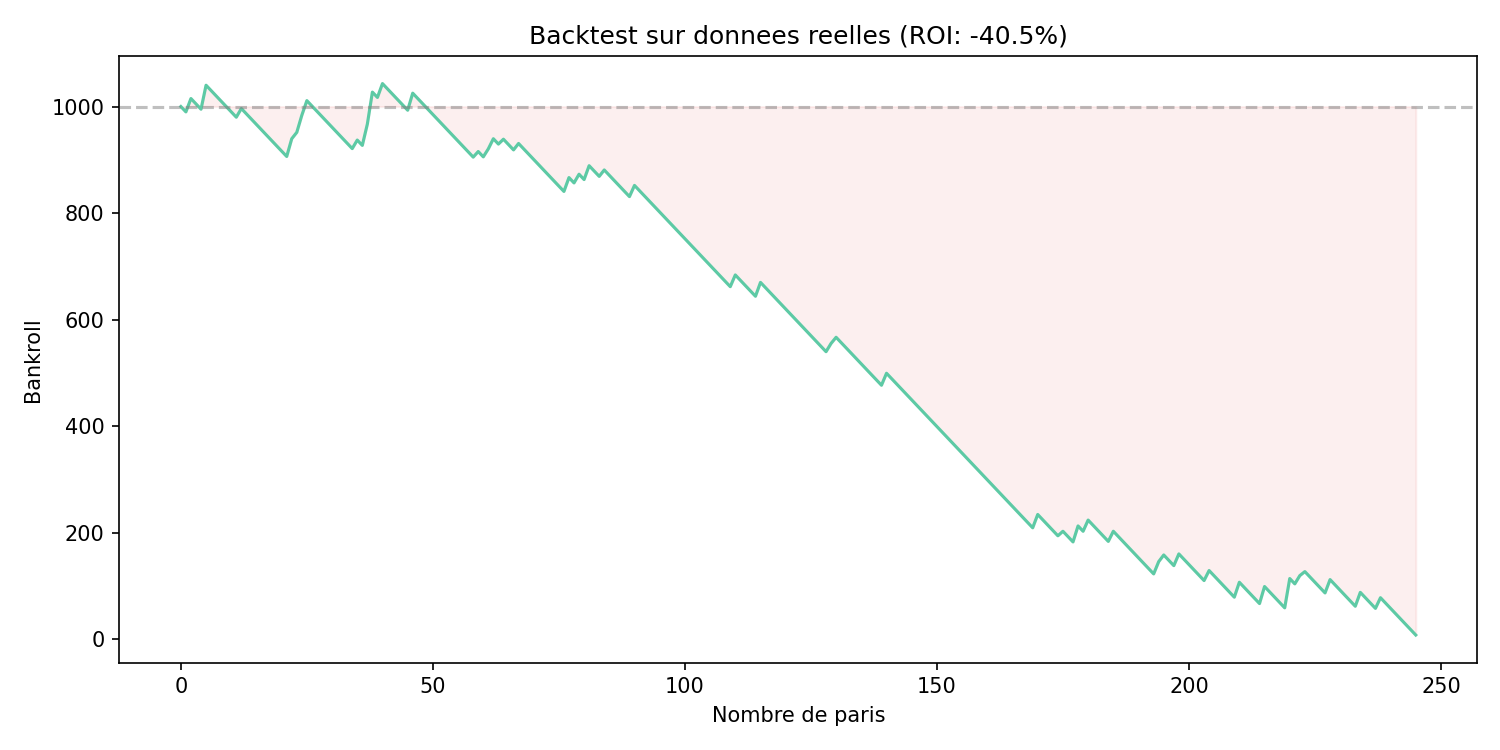
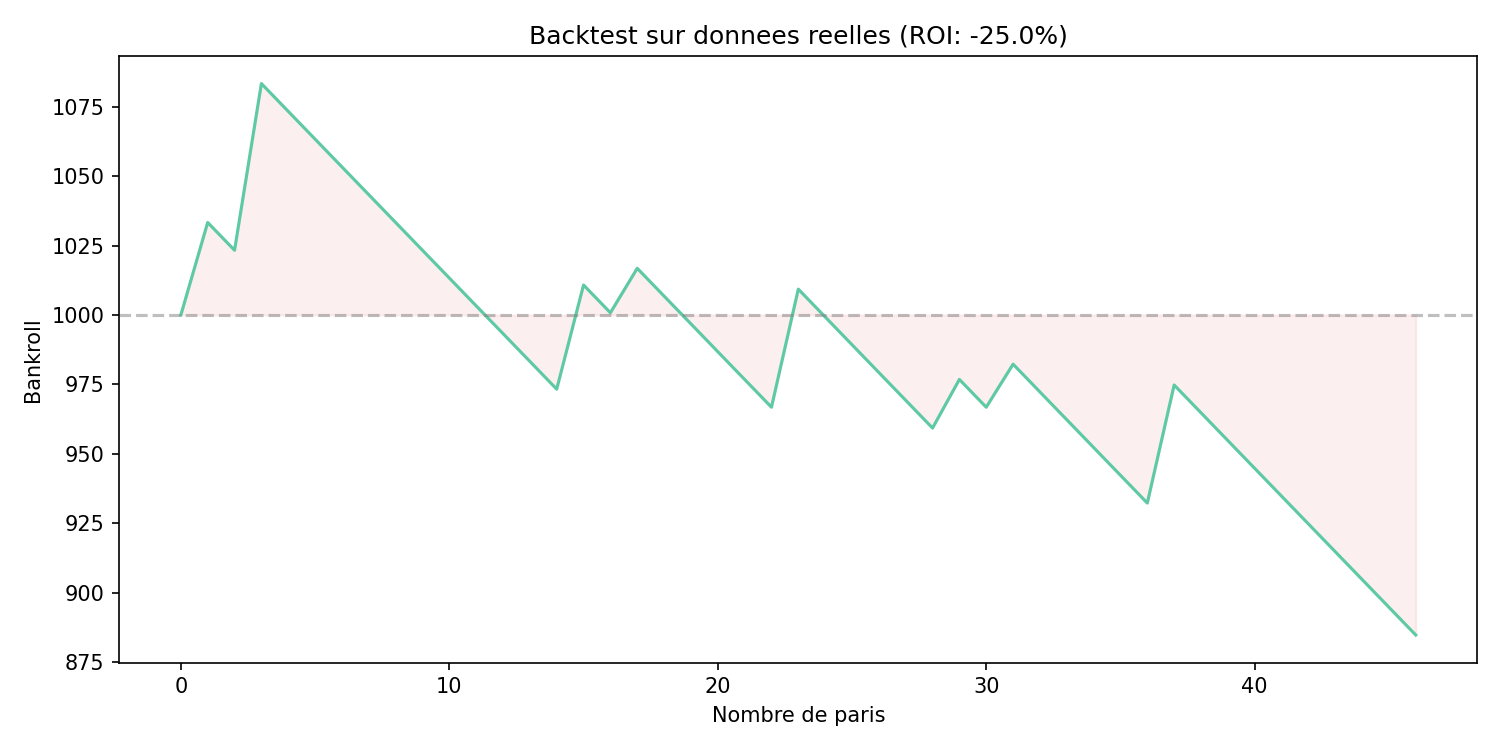
feat: model iteration - Draw-only strategy shows +36% ROI on real data

diff --git a/ml/train.py b/ml/train.py
@@ -56,16 +56,22 @@ def temporal_split(df, test_seasons=1):
 
 
 def get_feature_columns(df):
-    """Determine les colonnes disponibles (Pinnacle n'est pas toujours la)."""
-    cols = FEATURE_COLS.copy()
-
-    # Ajouter Pinnacle si disponible
-    if all(c in df.columns for c in PINNACLE_FEATURES):
-        cols.extend(PINNACLE_FEATURES)
-        print(f"   Pinnacle disponible : {len(cols)} features")
-    else:
-        print(f"   Pinnacle indisponible : {len(cols)} features (Bet365 only)")
-
+    """Approche hybride : Elo + forme + Bet365 seulement."""
+    cols = [
+        "elo_home_prob",
+        "elo_diff",
+        "home_form_scored",
+        "away_form_scored",
+        "home_form_conceded",
+        "away_form_conceded",
+        "expected_goal_diff",
+        "b365_norm_home",
+        "b365_norm_draw",
+        "b365_norm_away",
+        "odds_diff",
+    ]
+    cols = [c for c in cols if c in df.columns]
+    print(f"   Mode HYBRIDE : {len(cols)} features (Bet365 + Elo + forme)")
     return cols
 
 
@@ -282,7 +288,7 @@ def main():
     metrics = evaluate(raw_model, calibrated, X_test, y_test, test_clean)
 
     # 9. Backtest +EV
-    backtest_ev(test_clean, metrics["probabilities"], min_edge=0.03)
+    backtest_ev(test_clean, metrics["probabilities"], min_edge=0.12)
 
     # 10. Sauvegarder
     Path("model").mkdir(exist_ok=True)

diff --git a/ml/features.py b/ml/features.py
@@ -215,3 +215,14 @@ PINNACLE_FEATURES = [
     "pin_norm_draw",
     "pin_norm_away",
 ]
+
+
+# Features SANS les cotes bookmaker (pour decorrelation)
+DECORRELATED_FEATURES = [
+    "elo_prob_home",
+    "elo_diff",
+    "home_form",
+    "away_form",
+    "home_def_form",
+    "away_def_form",
+]
